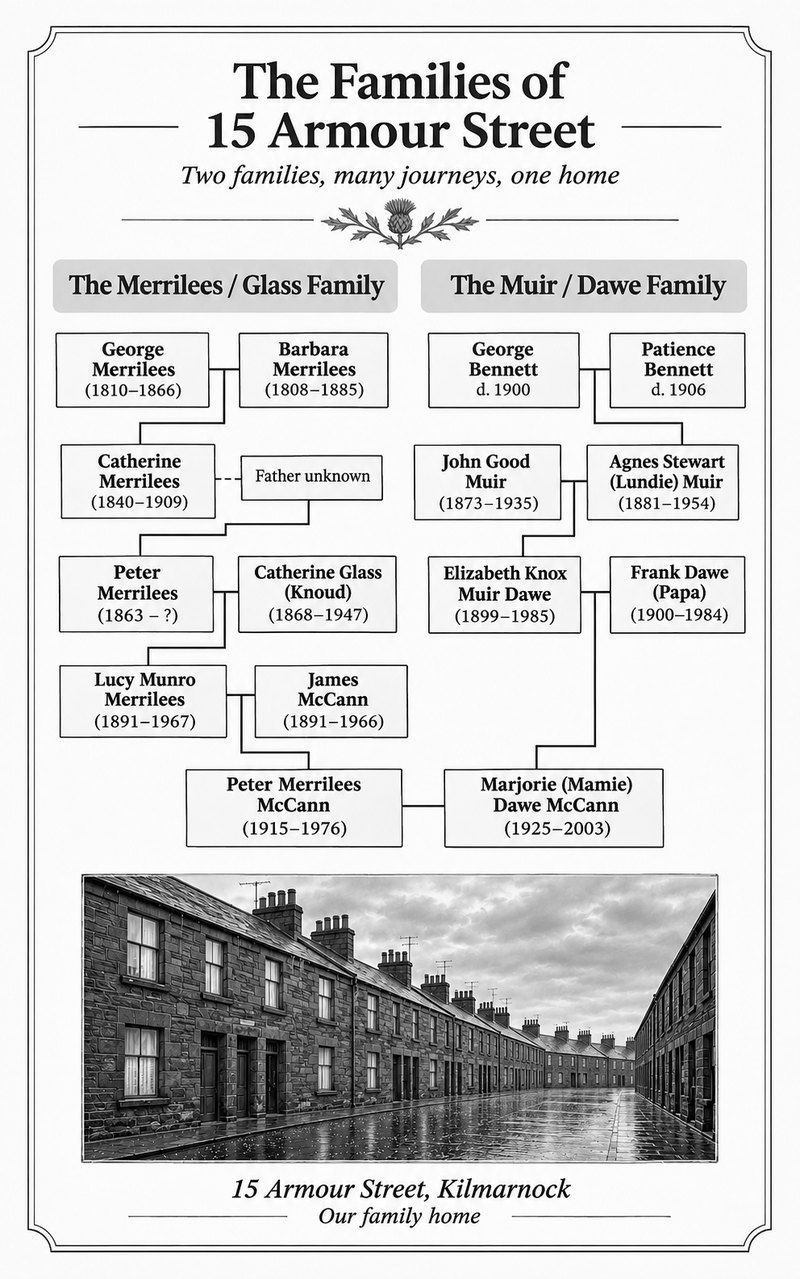
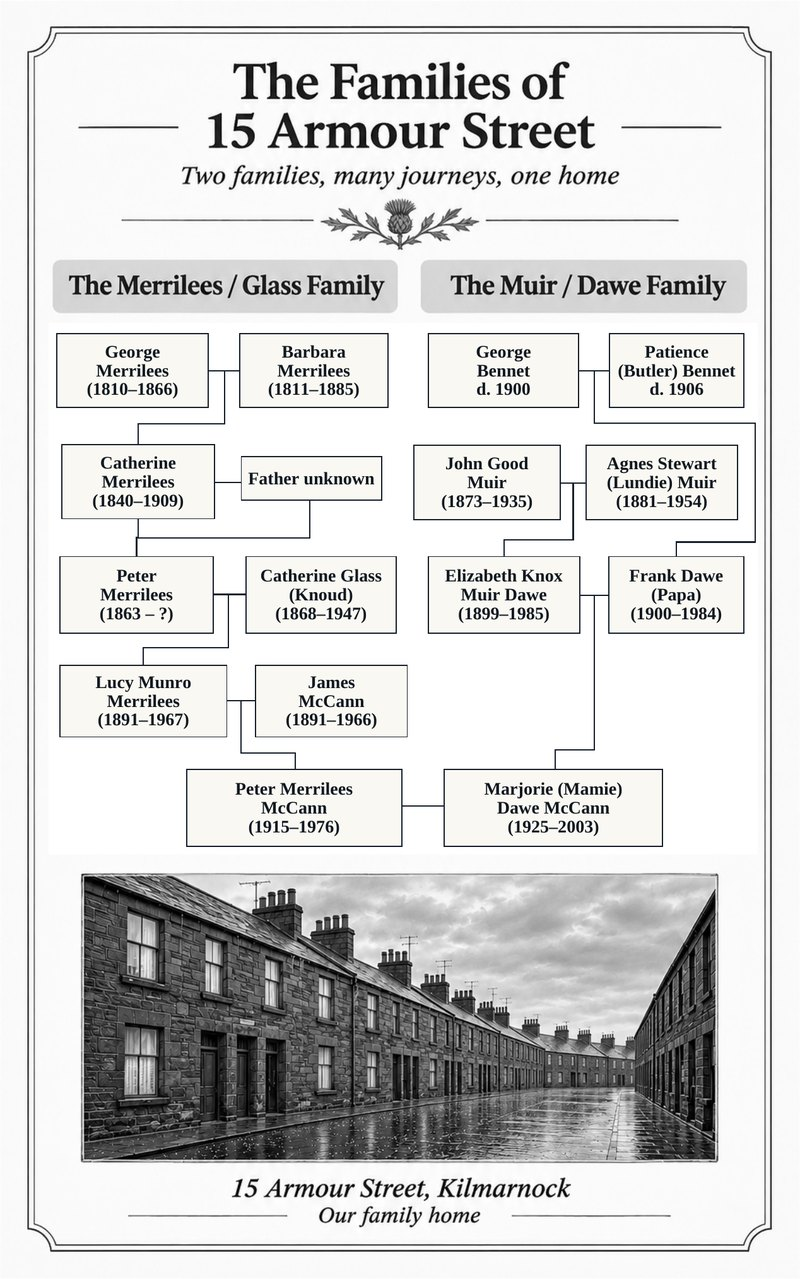
Task 3: Research Journey: replace family tree graphic with the PDF page as displayed (Barbara 1811, Bennet, Frank under George and Patience) and rebuild its text list (Pass 21)

diff --git a/research-journey/index.html b/research-journey/index.html
@@ -56,8 +56,7 @@
 
         <!-- [ Julie to supply short intro for the Research Journey page ] -->
 
-        <!-- EDIT HERE: The Families of 15 Armour Street (the graphic was replaced on 19 Nov 2026 with Julie's corrected copy dated 18 Nov 2026; the graphic carries its own title, so there is no heading here). The list below follows the graphic. If the graphic changes, update the list too. -->
-        <!-- [ Julie to confirm: in the new graphic the connector below George and Patience Bennett appears to run down to Agnes Stewart (Lundie) Muir, not to Frank Dawe (the old tree placed Frank below the Bennetts). Patience's death is now 1906 (the old tree said January 1908). The list above makes no claim about who is whose child. ] -->
+        <!-- EDIT HERE: The Families of 15 Armour Street (the graphic was replaced on 20 Nov 2026, second replacement, with the page as displayed in Julie's PDF dated 18 Nov 2026; the graphic carries its own title, so there is no heading here). The list below follows the graphic. If the graphic changes, update the list too. -->
         <figure class="record-figure">
           <a class="photo-frame photo-frame-img photo-frame-record" href="../assets/images/research/families-of-15-armour-street-large.jpg" aria-label="View larger family tree image">
             <img src="../assets/images/research/families-of-15-armour-street.jpg" alt="Family tree titled The Families of 15 Armour Street: two families, many journeys, one home. The Merrilees / Glass Family is on the left and the Muir / Dawe Family is on the right, joining at the bottom in Peter Merrilees McCann and Marjorie Dawe McCann. A reconstructed picture of 15 Armour Street, Kilmarnock, our family home, is underneath. A text version follows." width="800" height="1279" loading="lazy" decoding="async">
@@ -67,7 +66,7 @@
             <summary>Read this as a list</summary>
             <p><strong>The Merrilees / Glass Family</strong></p>
             <ul>
-              <li>George Merrilees (1810 – 1866) and Barbara Merrilees (1808 – 1885).</li>
+              <li>George Merrilees (1810 – 1866) and Barbara Merrilees (1811 – 1885).</li>
               <li>Their daughter Catherine Merrilees (1840 – 1909). Her son's father is shown as unknown.</li>
               <li>Her son Peter Merrilees (born 1863, no death year shown) and Catherine Glass (Knoud) (1868 – 1947).</li>
               <li>Their daughter Lucy Munro Merrilees (1891 – 1967) and James McCann (1891 – 1966).</li>
@@ -75,10 +74,10 @@
             </ul>
             <p><strong>The Muir / Dawe Family</strong></p>
             <ul>
-              <li>George Bennett (died 1900) and Patience Bennett (died 1906).</li>
+              <li>George Bennet (died 1900) and Patience (Butler) Bennet (died 1906).</li>
               <li>John Good Muir (1873 – 1935) and Agnes Stewart (Lundie) Muir (1881 – 1954).</li>
               <li>Their daughter Elizabeth Knox Muir Dawe (1899 – 1985).</li>
-              <li>Frank Dawe (Papa) (1900 – 1984), shown alongside Elizabeth.</li>
+              <li>Frank Dawe (Papa) (1900 – 1984), son of George and Patience Bennet, shown alongside Elizabeth.</li>
               <li>Their daughter Marjorie (Mamie) Dawe McCann (1925 – 2003), shown alongside Peter Merrilees McCann.</li>
             </ul>
             <p>15 Armour Street, Kilmarnock: our family home. The picture of the street is an AI-generated reconstruction inspired by the original streetscape. The tree shows the main people in the book. Dates and details are from family records and it does not include all relatives.</p>

diff --git a/README.md b/README.md
@@ -29,7 +29,7 @@ The photographs on From the Scullery have alt text and, apart from three labels 
 
 A Thread Through the Generations and About the Storyteller are also Julie's own words (`A_Thread_Through_the_Generations.txt`, `Personal bio.txt`). The one wording fix on the Threads page is "form the Shetlands" corrected to "from the Shetlands". Her sentence about the pink baby set (made by her sister) is in "Made to be worn and loved". Each photo there is a plain link to its `-large.jpg` twin (no JavaScript); the only visible line under any photo is the Singer licence credit. Later additions: the sewing basket photograph (`sewing-basket-open-lid.jpg`, small, left of the text under the Singer note, no caption) and `cream-baby-shawl-and-set.jpg`, now the **only** shawl photograph on the page (on 4 Nov 2026 the two pink-cast photos of the same set were removed, and their files deleted, to leave a single cream one; Julie's sentence "The pink baby shawl…" is unchanged and still stands without a matching pink photo). The wedding-ring shawl photo marker is gone: she has no photo of her own, and the Shetland link stands in.
 
-The Research Journey is Julie's own wording (`Finding_Papa_in_the_Records.txt`, `Following_the_Merrilees_Family.txt`, `Carradale_First_Mate_and_Artist_Patrick_FAMILY_CONNECTION.txt`, 1 Nov 2026), in two sections: Finding Papa in the Records; Following the Merrilees Family. (The Carradale section was removed at Julie's request on 4 Nov 2026; the Carradale now lives on the Sailing Stories page.) Her notes to Patrick, permissions notes, design suggestions, checklists and editorial notes are not published. The Kirk Session passage (1 March 1863) is Julie's own text with her source line (Pass 19); the image of the minute was removed at her request (18 Nov 2026) and replaced by that text. On 19 Nov 2026 (Pass 20) that passage was replaced by Julie's longer single paragraph (her words verbatim, with the source line kept as its own italic line beneath); On 20 Nov 2026 (Pass 21) the section was replaced again by Julie's second version (her wording verbatim, with the same source line), and the separate "Called before the Kirk Session" section was removed entirely at her request. The casualty register (HMS Snapdragon, December 1942) is now on the page (Pass 15): a two-page spread with Snapdragon on the left-hand page, shown whole (never cropped) with Julie's caption, her credit "The National Archives (UK), ADM 358/4183. Reproduced by permission of The National Archives.", and an enlarge link. Her line "image will be added once reproduction arrangements are confirmed" was dropped because it no longer applies. The page deliberately has no intro line yet (hidden marker). Julie's family tree graphic, "The Families of 15 Armour Street" (first supplied 7 Nov 2026; replaced 19 Nov 2026), opens the page. The poorhouse is not described as burned down: the corrected entry records injuries from burning, nothing more.
+The Research Journey is Julie's own wording (`Finding_Papa_in_the_Records.txt`, `Following_the_Merrilees_Family.txt`, `Carradale_First_Mate_and_Artist_Patrick_FAMILY_CONNECTION.txt`, 1 Nov 2026), in two sections: Finding Papa in the Records; Following the Merrilees Family. (The Carradale section was removed at Julie's request on 4 Nov 2026; the Carradale now lives on the Sailing Stories page.) Her notes to Patrick, permissions notes, design suggestions, checklists and editorial notes are not published. The Kirk Session passage (1 March 1863) is Julie's own text with her source line (Pass 19); the image of the minute was removed at her request (18 Nov 2026) and replaced by that text. On 19 Nov 2026 (Pass 20) that passage was replaced by Julie's longer single paragraph (her words verbatim, with the source line kept as its own italic line beneath); On 20 Nov 2026 (Pass 21) the section was replaced again by Julie's second version (her wording verbatim, with the same source line), and the separate "Called before the Kirk Session" section was removed entirely at her request. The casualty register (HMS Snapdragon, December 1942) is now on the page (Pass 15): a two-page spread with Snapdragon on the left-hand page, shown whole (never cropped) with Julie's caption, her credit "The National Archives (UK), ADM 358/4183. Reproduced by permission of The National Archives.", and an enlarge link. Her line "image will be added once reproduction arrangements are confirmed" was dropped because it no longer applies. The page deliberately has no intro line yet (hidden marker). Julie's family tree graphic, "The Families of 15 Armour Street" (first supplied 7 Nov 2026; replaced 19 Nov 2026 and again 20 Nov 2026), opens the page. The poorhouse is not described as burned down: the corrected entry records injuries from burning, nothing more.
 
 Sailing Stories (`sailing-stories/index.html`) holds three stories, each a `<section class="research-section">` with its own `aria-labelledby` id, in this order: "The Clipper Routes" (first, at Julie's request; her email of 8 Nov 2026), "The Sailor and the Artist" (4 Nov 2026), and "Two Ships, One U-Boat" / The Ainsdale and the Azul (her newer brief, 9 Nov 2026). Julie confirmed on 9 Nov 2026 that the Ainsdale story stays **after** Sailor and Artist. The Clipper Routes uses the Carradale photograph again (same credit) and the Bermuda painting, "The barque Bermuda. Painting by John Henry Mohrmann (1857–1916). Public domain." The Ainsdale story keeps Julie's wording, with two corrections she supplied on 9 Nov 2026: "SS Ikalis" (not HMS; the passenger return marks her "SS", a merchant steamship) and Peter Merrilees as a "Seaman" (the crew list, entry 43, shows a ditto mark under "Seaman"). Its four National Archives images carry Julie's supplied credit lines exactly ("The National Archives, BT 165/1585. Reproduced under licence." for the log book cover, ports of call page and crew list; "The National Archives, UK. Reproduced under licence" for the Ikalis passenger record, BT26 series). The licence invoice number is deliberately **not** on any page or in this repository. The colourised Carradale photograph carries Frank Hellsten's own accreditation label, used with his permission (5 Nov 2026); the crew list carries the State Records NSW source line; a Nielsen source line (the English summary of his Akvarellen article, linked) closes the "A voyage through an artist's eyes" section. It ends with "The voyage in pictures" (Julie's 6 Nov 2026 wording): four paragraphs saying five of Gregory Robinson's original drawings, held by the Royal Museums Greenwich, will be added when the museum supplies them. Under them is a hidden gallery slot (an HTML comment holding a ready-to-copy `figure.record-figure` block, one per drawing; nothing shows on the page). Credit wording and any enlarge link are to be confirmed with Julie. The page reuses the Research Journey's styles; the closing link goes to the Book page.
 
@@ -45,7 +45,6 @@ The linked record images (the five National Records of Scotland scans and the ca
 | `[ footer wording — Julie to confirm ]` | Footer (every page) | Her OK on the footer's "Memories and corrections are welcome" line and the reader contact address |
 | `[ Julie to supply short intro for the Research Journey page ]` | Research Journey, top (HTML comment) | A one-line intro, if she wants one |
 | Bermuda painting | Sailing Stories, Clipper Routes | The file is only 816px wide, so there is no enlarge link; a larger `IMG_0149.jpeg` may be in her 8 Nov 2026 email. The painting shows three masts, though the handoff called it four-masted, so the alt text describes what is visible |
-| `[ Julie to confirm: ... connector below George and Patience Bennett ... ]` | Research Journey, tree comment | In the new graphic (Pass 20) the connector below George and Patience Bennett appears to run down to Agnes Stewart (Lundie) Muir, not to Frank Dawe (the old tree placed Frank below the Bennetts). Patience's death is now 1906 (the old tree said January 1908). The list makes no claim about who is whose child. The old Elizabeth/Frank 1987 question is closed: Julie's final copy still shows 1985 and 1984 |
 | Held Scullery labels (five hidden comments) | The Ways of Home (Scullery part), above each photo | Whether her granddaughters' first names may be public (nameless options are in each comment) |
 | Beyond the Book tense | The Book, "Beyond the Book" (HTML comment) | She asked about present tense; "will" kept until Patrick confirms with her |
 | Burns epigraph | Home only | Not an open item: Julie asked for the quotation to live on Home only ("where it has real significance"). A comment on The Book marks where it was removed |
@@ -81,7 +80,7 @@ The Ways of Home, Scullery part: `assets/images/scullery/` holds 18 photographs 
 
 Sailing Stories: `assets/images/sailing/` holds the colourised Carradale photograph (`carradale-four-masted-barque-colourised.jpg`, 1225x1600, shown whole so the "Color by Frank Hellsten" mark stays on it) the 1903 Sydney crew list (`carradale-1903-sydney-inward-crew-list.jpg`, 1600px wide, linking to a 3200px `-large.jpg`), the Bermuda painting (`bermuda-four-masted-barque-painting.jpg`, 816x471, its only size) and the four Ainsdale records (`ainsdale-log-book-cover-1917`, `ainsdale-log-book-ports-of-call`, `ainsdale-crew-list-entry-43`, each 1600px long edge with a 3200px `-large` twin; `ikalis-incoming-passengers-liverpool-1917`, cropped from Julie's full spread to the Ikalis return page only, with a `-large` twin at the crop's native size). All are metadata-stripped.
 
-The Research Journey: `assets/images/research/` holds five National Records of Scotland record scans (birth 1863, marriage 1830, two deaths, corrected entry 1885), each with a `-large.jpg` twin that the page links to, the HMS Snapdragon casualty register (`hms-snapdragon-casualty-register-1942.jpg`, 1600px wide, linking to a 3200px `-large.jpg`; shown as the whole two-page spread, uncropped), plus the small HMS Snapdragon photograph (473x248, no large twin, shown at natural size). **Never crop or cover the record images**: the NRS "Crown copyright… Image was generated at…" header is part of each one, so they use a plain frame (`photo-frame-record`, no photo corners, no tilt). Each has its credit line directly beneath, built from the header printed on the image. The Snapdragon credit is "HMS Snapdragon at Bandar Shapur, Iran, August 1941. Australian War Memorial, photograph 134400. Public domain." A single Open Government Licence v3.0 line sits in the Sources part and is worded "NRS record images reused under…" so it does not claim to cover the National Archives register. The family tree graphic is `families-of-15-armour-street.jpg` (800x1279, linking to a 992x1586 `-large.jpg`, which is the size Julie supplied). It was replaced on 19 Nov 2026 (Pass 20) with Julie's corrected copy dated 18 Nov 2026 (`Hameward_Bend_Family_Tree_Corrected_18Nov2026.pdf`). The new graphic is much plainer than the old one: names and years only, with no occupations, places or nicknames other than "(Papa)", "(Mamie)" and "(Knoud)", so the "Read this as a list" text was rewritten to match and now drops the occupations and places the old tree carried. Both JPEGs had a C2PA content-credentials block (APP11) in the prepared files; it was stripped losslessly from the repo copies, and a byte scan for `Exif`, `c2pa`, `jumb` and `XMP` now finds none. It sits at the top of the page with no heading of its own (the graphic carries its title) and has the same "Select the image to enlarge it." line, plus a collapsed "Read this as a list" (`<details>`) giving the same content as text. **If the graphic is ever replaced, update that list to match.** No children are named anywhere on the page.
+The Research Journey: `assets/images/research/` holds five National Records of Scotland record scans (birth 1863, marriage 1830, two deaths, corrected entry 1885), each with a `-large.jpg` twin that the page links to, the HMS Snapdragon casualty register (`hms-snapdragon-casualty-register-1942.jpg`, 1600px wide, linking to a 3200px `-large.jpg`; shown as the whole two-page spread, uncropped), plus the small HMS Snapdragon photograph (473x248, no large twin, shown at natural size). **Never crop or cover the record images**: the NRS "Crown copyright… Image was generated at…" header is part of each one, so they use a plain frame (`photo-frame-record`, no photo corners, no tilt). Each has its credit line directly beneath, built from the header printed on the image. The Snapdragon credit is "HMS Snapdragon at Bandar Shapur, Iran, August 1941. Australian War Memorial, photograph 134400. Public domain." A single Open Government Licence v3.0 line sits in the Sources part and is worded "NRS record images reused under…" so it does not claim to cover the National Archives register. The family tree graphic is `families-of-15-armour-street.jpg` (800x1279, linking to a 1268x2028 `-large.jpg`, cropped from the PDF page at 300 dpi). It was replaced on 19 Nov 2026 (Pass 20) with Julie's corrected copy dated 18 Nov 2026 (`Hameward_Bend_Family_Tree_Corrected_18Nov2026.pdf`), and replaced a second time on 20 Nov 2026 (Pass 21): Pass 20 had used the raster image embedded in the PDF, but the page as displayed layers live text over it and is the newer graphic (Barbara 1811–1885, the surname spelled "Bennet", and a connector from George and Patience Bennet down to Frank Dawe, matching Julie's 19 Nov note that Frank's parents are George and Patience). The list spells the surname "Bennet" because her graphic does. The graphic is much plainer than the old one: names and years only, with no occupations, places or nicknames other than "(Papa)", "(Mamie)" and "(Knoud)", so the "Read this as a list" text was rewritten to match and now drops the occupations and places the old tree carried. Both JPEGs carried a C2PA content-credentials block (APP11) in the prepared files, both times; it was stripped losslessly from the repo copies, and a byte scan for `Exif`, `c2pa`, `jumb` and `XMP` now finds none. It sits at the top of the page with no heading of its own (the graphic carries its title) and has the same "Select the image to enlarge it." line, plus a collapsed "Read this as a list" (`<details>`) giving the same content as text. **If the graphic is ever replaced, update that list to match.** No children are named anywhere on the page.
 
 The Ways of Home, Threads part: `assets/images/knitting/` holds the knitting and sewing photographs, each with a `-large.jpg` twin (1350x1800 or 1800x1350) that the small version links to, plus the Singer museum photograph (no large twin). The one baby set photo is `cream-baby-shawl-and-set.jpg` (with its `-large.jpg` twin); since 7 Nov 2026 it is Mhairi's own photograph (it replaced the earlier image under the same name), with Julie's label "A gift from Mhairi for her grandniece." beneath it. The two pink-cast photos of the same set were removed on 4 Nov 2026 and their files deleted. `pink-sock-in-progress.jpg` (750x765, with its `-large.jpg` twin) is a cropped replacement from 7 Nov 2026; the earlier one showed Julie's foot. The new `paragon-knitting-book-101-cover.jpg` (with `-large.jpg` twin) is in use in "Made to be worn and loved", with the visible label "Paragon Knitting Book No. 101, from my own collection". Also in use: `sewing-basket-open-lid.jpg` (with its twin). About the Storyteller: `assets/images/storyteller/julie-portrait.jpg` (1000x971, the warm portrait Julie chose). All are metadata-stripped.
 
